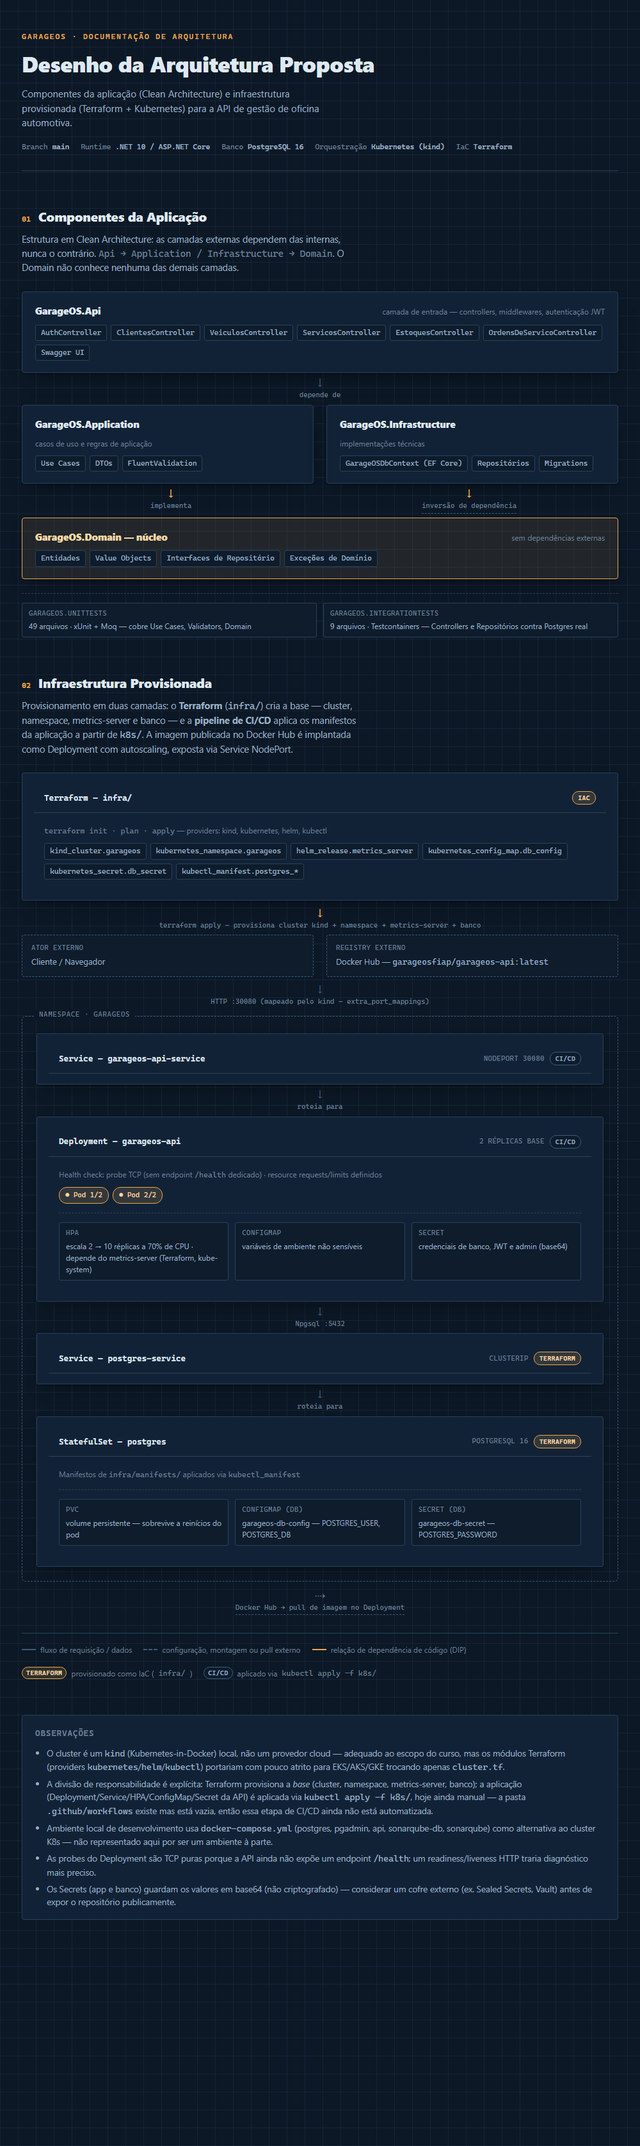
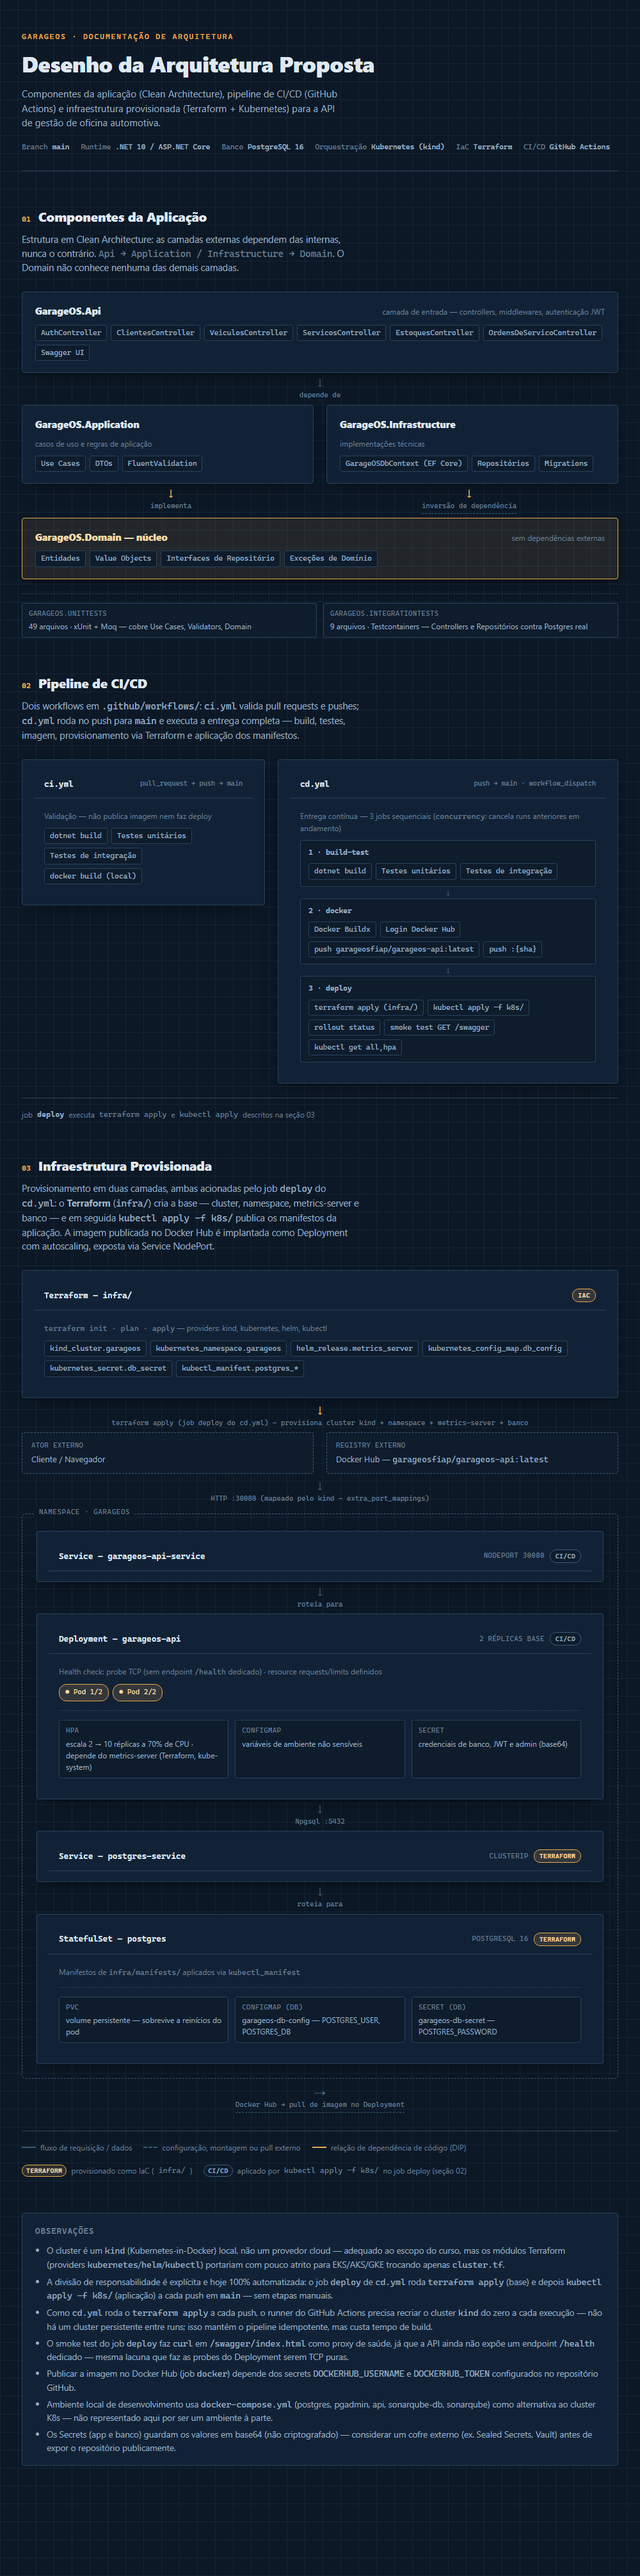
Adição do desenho do CI/CD

diff --git a/docs/arquitetura.md b/docs/arquitetura.md
@@ -1,8 +1,8 @@
 # GarageOS — Desenho da Arquitetura Proposta
 
-Componentes da aplicação (Clean Architecture) e infraestrutura provisionada (Terraform + Kubernetes) para a API de gestão de oficina automotiva.
+Componentes da aplicação (Clean Architecture), pipeline de CI/CD (GitHub Actions) e infraestrutura provisionada (Terraform + Kubernetes) para a API de gestão de oficina automotiva.
 
-> Branch `main` · Runtime .NET 10 / ASP.NET Core · Banco PostgreSQL 16 · Orquestração Kubernetes (kind) · IaC Terraform
+> Branch `main` · Runtime .NET 10 / ASP.NET Core · Banco PostgreSQL 16 · Orquestração Kubernetes (kind) · IaC Terraform · CI/CD GitHub Actions
 
 ![Desenho da arquitetura do GarageOS](./arquitetura.png)
 
@@ -59,7 +59,34 @@ flowchart TB
 
 ---
 
-## 2. Infraestrutura como Código (Terraform)
+## 2. Pipeline de CI/CD
+
+Dois workflows em `.github/workflows/`: `ci.yml` valida pull requests e pushes; `cd.yml` roda no push para `main`
+(ou `workflow_dispatch`) e executa a entrega completa — build, testes, imagem, provisionamento via Terraform e
+aplicação dos manifestos. `cd.yml` usa `concurrency` para cancelar runs anteriores em andamento no mesmo ref.
+
+```mermaid
+flowchart TB
+    subgraph CI["ci.yml — pull_request + push → main"]
+        direction LR
+        CIB["dotnet build"] --> CIT["Testes unitários\n+ integração"] --> CID["docker build\n(validação local)"]
+    end
+
+    subgraph CD["cd.yml — push → main · workflow_dispatch"]
+        direction TB
+        J1["1 · build-test\ndotnet build + testes unitários + integração"]
+        J2["2 · docker\nBuildx → login Docker Hub →\npush garageosfiap/garageos-api:latest e :sha"]
+        J3["3 · deploy\nterraform apply (infra/) → kubectl apply -f k8s/ →\nrollout status → smoke test GET /swagger → kubectl get all,hpa"]
+        J1 --> J2 --> J3
+    end
+```
+
+> O job `deploy` de `cd.yml` é quem executa, em sequência, o `terraform apply` e o `kubectl apply -f k8s/`
+> detalhados nas seções 3 e 4 — hoje esse fluxo é 100% automatizado, sem etapas manuais.
+
+---
+
+## 3. Infraestrutura como Código (Terraform)
 
 O diretório `infra/` provisiona, via Terraform, a **base** do ambiente: cluster Kubernetes, namespace, metrics-server
 e banco de dados. A aplicação em si (Deployment/Service/HPA/ConfigMap/Secret da API) **não** é provisionada pelo
@@ -84,19 +111,16 @@ flowchart TB
     TF --> C4["kubernetes_config_map/secret\ndb_config · db_secret"]
     TF --> C5["kubectl_manifest.postgres_*\nPVC · Service · StatefulSet"]
 
-    CICD["kubectl apply -f k8s/\n(CI/CD — hoje manual)"]
+    CICD["kubectl apply -f k8s/\n(job deploy de cd.yml)"]
     CICD --> A1["Deployment/Service/HPA\nConfigMap/Secret da API"]
 
     C2 -.->|namespace pronto| CICD
     C5 -.->|banco pronto| CICD
 ```
 
-> `.github/workflows/` já existe no repositório mas ainda está vazio — o `kubectl apply -f k8s/` descrito no
-> README de `infra/` hoje é executado manualmente, não por uma pipeline automatizada.
-
 ---
 
-## 3. Infraestrutura Provisionada (Kubernetes)
+## 4. Infraestrutura Provisionada (Kubernetes)
 
 Produção roda no cluster kind criado pelo Terraform: a imagem publicada no Docker Hub é implantada como Deployment com
 autoscaling, exposta via Service NodePort, e persiste dados em um StatefulSet PostgreSQL com volume dedicado.
@@ -143,13 +167,16 @@ flowchart TB
 ```
 
 **Legenda**: seta sólida = fluxo de requisição/dados · seta tracejada = configuração, montagem, pull externo ou monitoramento.
-Os rótulos **Terraform** / **CI/CD** em cada objeto indicam quem o provisiona (ver seção 2).
+Os rótulos **Terraform** / **CI/CD** em cada objeto indicam quem o provisiona (ver seções 2 e 3).
 
 ---
 
 ## Observações
 
 - O cluster é um `kind` (Kubernetes-in-Docker) local, não um provedor cloud — adequado ao escopo do curso; os módulos Terraform (providers `kubernetes`/`helm`/`kubectl`) portariam para EKS/AKS/GKE trocando principalmente `cluster.tf`.
+- A divisão de responsabilidade é explícita e hoje 100% automatizada: o job `deploy` de `cd.yml` roda `terraform apply` (base) e depois `kubectl apply -f k8s/` (aplicação) a cada push em `main` — sem etapas manuais.
+- Como `cd.yml` roda `terraform apply` a cada push, o runner do GitHub Actions recria o cluster `kind` do zero em cada execução — não há cluster persistente entre runs; mantém o pipeline idempotente, mas custa tempo de build.
+- O smoke test do job `deploy` faz `curl` em `/swagger/index.html` como proxy de saúde, já que a API ainda não expõe um endpoint `/health` dedicado — a mesma lacuna que faz as probes do Deployment serem TCP puras.
+- Publicar a imagem no Docker Hub (job `docker`) depende dos secrets `DOCKERHUB_USERNAME` e `DOCKERHUB_TOKEN` configurados no repositório GitHub.
 - Ambiente local de desenvolvimento também pode usar `docker-compose.yml` (postgres, pgadmin, api, sonarqube-db, sonarqube) como alternativa ao cluster K8s — não representado aqui por ser um ambiente à parte.
-- As probes do Deployment são TCP puras porque a API ainda não expõe um endpoint `/health`; um readiness/liveness HTTP traria diagnóstico mais preciso.
 - Os Secrets (app e banco) guardam os valores em base64 (não criptografado) — considerar um cofre externo (ex. Sealed Secrets, Vault) antes de expor o repositório publicamente.
